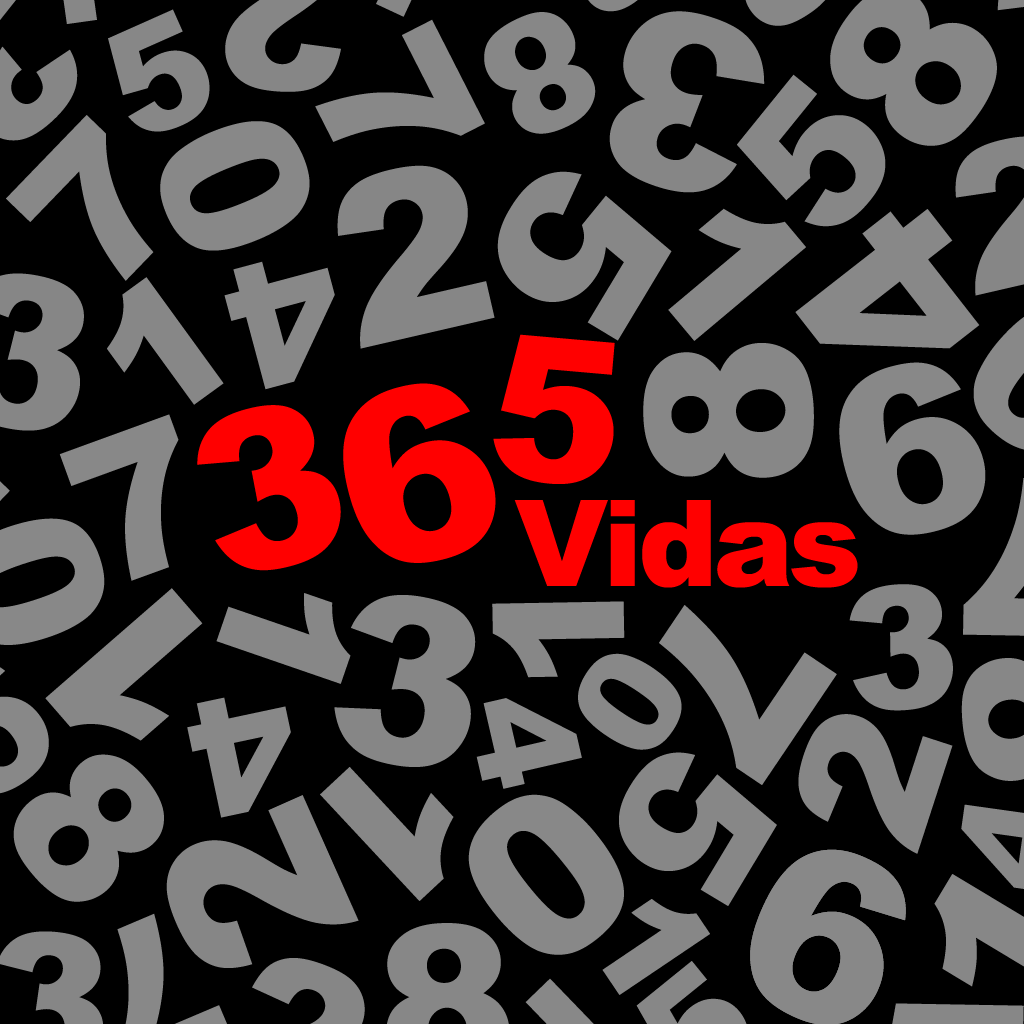
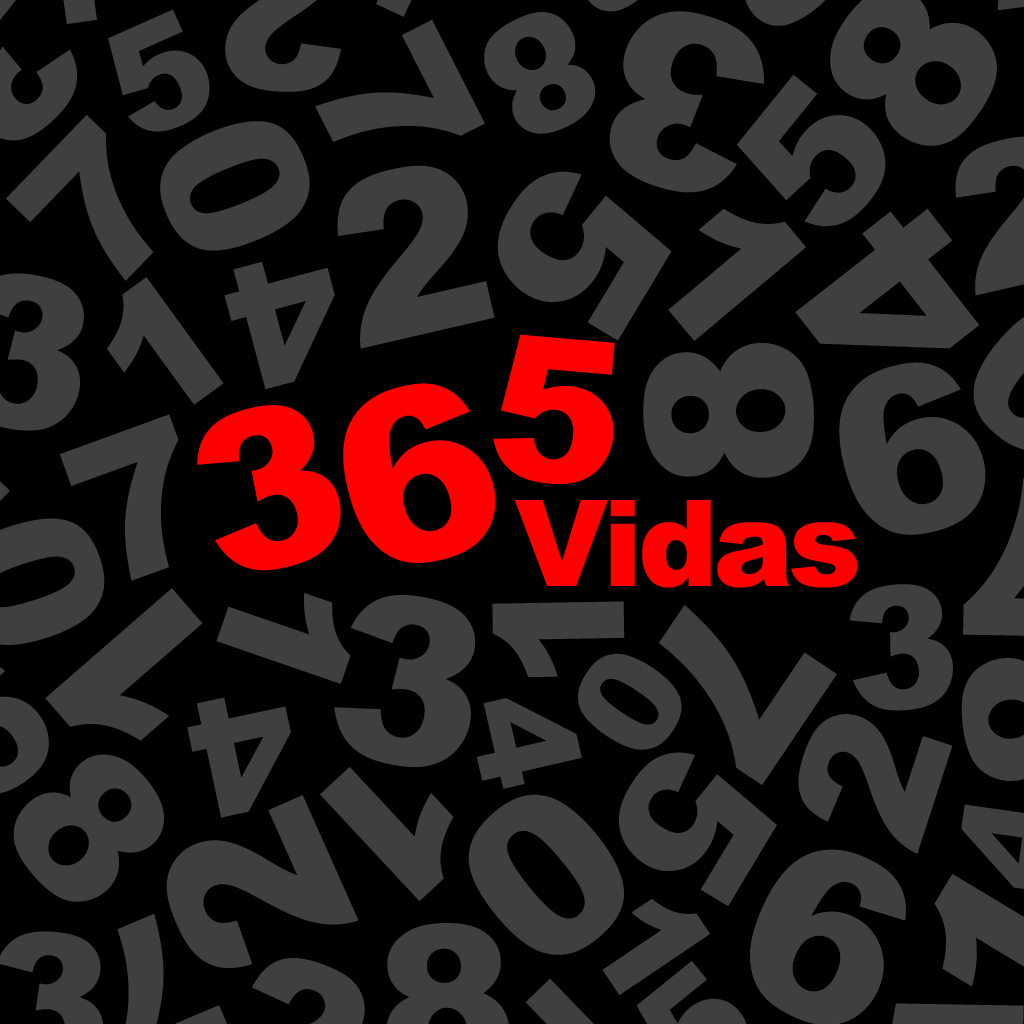
Matinal App
Probando abrir links sin agregar en el <head> el plugin.
Modificando del icono

diff --git a/index.html b/index.html
@@ -12,7 +12,7 @@
     <script src="includes/js/load-json.js"></script>
     <script src="includes/js/jquery.mmenu.js"></script>
     <script src="phonegap.js"></script>
-    <script src="plugins/org.apache.cordova.inappbrowser/www/inappbrowser.js"></script>
+    <!--<script src="plugins/org.apache.cordova.inappbrowser/www/inappbrowser.js"></script>-->
 
     <!-- CSS -->
     <link rel="stylesheet" type="text/css" href="includes/css/modificaciones.css">
@@ -85,15 +85,10 @@
         }
 
         // window.open wasn't opening a link in the system browser on iOS, so we have to use this function (requires phonegap.js)
-        function redirectToSystemBrowser(url) {
-            console.log("Entré a fx(SystemBrowser)");
-            // Wait for Cordova to load
-            document.addEventListener('deviceready', onDeviceReady, false);
-            // Cordova is ready
+        function redirectToSystemBrowser(url) {            
+            document.addEventListener('deviceready', onDeviceReady, false); // Wait for Cordova to load            
             function onDeviceReady() {
-                console.log("A punto de abrir SystemBrowser");
-                // open URL in default web browser
-                var ref = window.open(encodeURI(url), '_system', 'location=yes');
+                var ref = window.open(encodeURI(url), '_blank', 'closebuttoncaption=Cerrar');
             }
         }
     </script>
@@ -151,11 +146,8 @@
         
         <p>
             <h3>Probando los Links</h3>
-            <a href="#" onClick="abrirURL('http://www.jmarqz.com');">Link JS función</a> <br>
-            <a href="#" onClick="window.open('http://jmarqz.com', '_blank');">Link window.open('_blank'))</a> <br>
-            <a href="#" onClick="window.open('http://jmarqz.com', '_system');">Link window.open('_system'))</a> <br>
-            <a href="#" onClick="window.open('http://jmarqz.com', '_blank', 'closebuttoncaption=Cerrar');">Close BTN Close</a> <br>
-            <a href="#" onClick="redirectToSystemBrowser('http://www.jmarqz.com');">redirectToSystemBrowser</a>
+            <a href="#" onClick="window.open('http://jmarqz.com', '_blank', 'closebuttoncaption=Cerrar');">Close BTN Cerrar</a> <br>
+            <a href="#" onClick="redirectToSystemBrowser('http://www.jmarqz.com');">redirectToSystemBrowser 'Cerrar'</a>
         </p>
 
         <h3>Probando las Apps instaladas</h3>

diff --git a/paginas/creditos.html b/paginas/creditos.html
@@ -12,7 +12,7 @@
     <script src="../includes/js/load-json.js"></script>
     <script src="../includes/js/jquery.mmenu.js"></script>
     <script src="../phonegap.js"></script>
-    <script src="../plugins/org.apache.cordova.inappbrowser/www/inappbrowser.js"></script>
+    <!--<script src="../plugins/org.apache.cordova.inappbrowser/www/inappbrowser.js"></script>-->
 
     <!-- CSS -->
     <link rel="stylesheet" type="text/css" href="../includes/css/modificaciones.css">
@@ -72,19 +72,10 @@
     
     <div data-role="content" id="content">
         <p>
-            <h3>Probando los Links</h3>
-            <a href="#" onClick="abrirURL('http://www.jmarqz.com');">Link JS función</a> <br>
-            <a href="#" onClick="window.open('http://jmarqz.com', '_blank');">Link window.open('_blank'))</a> <br>
-            <a href="#" onClick="window.open('http://jmarqz.com', '_system');">Link window.open('_system'))</a> <br>
-            <a href="#" onClick="window.open('http://jmarqz.com', '_blank', 'closebuttoncaption=Cerrar');">Close BTN Close</a> <br>
-            <a href="#" onClick="redirectToSystemBrowser('http://www.jmarqz.com');">redirectToSystemBrowser</a>
-        </p>
-
-        <p>
             <strong>Líder del proyecto y desarrollador</strong> <br>
             Jabel Márquez <br>
             Twitter: <a href="twitter://user?screen_name=jmarqz04">@JMarqz04</a><br>
-            Sitio Web: <a href="#" onclick="abrirURL('http://www.jmarqz.com');">JMarqz.com</a>
+            Sitio Web: <a href="#" onclick="window.open('http://jmarqz.com', '_blank', 'closebuttoncaption=Cerrar');">JMarqz.com</a>
         </p>
         <p>
             <strong>Encargado de reflexiones</strong> <br>
